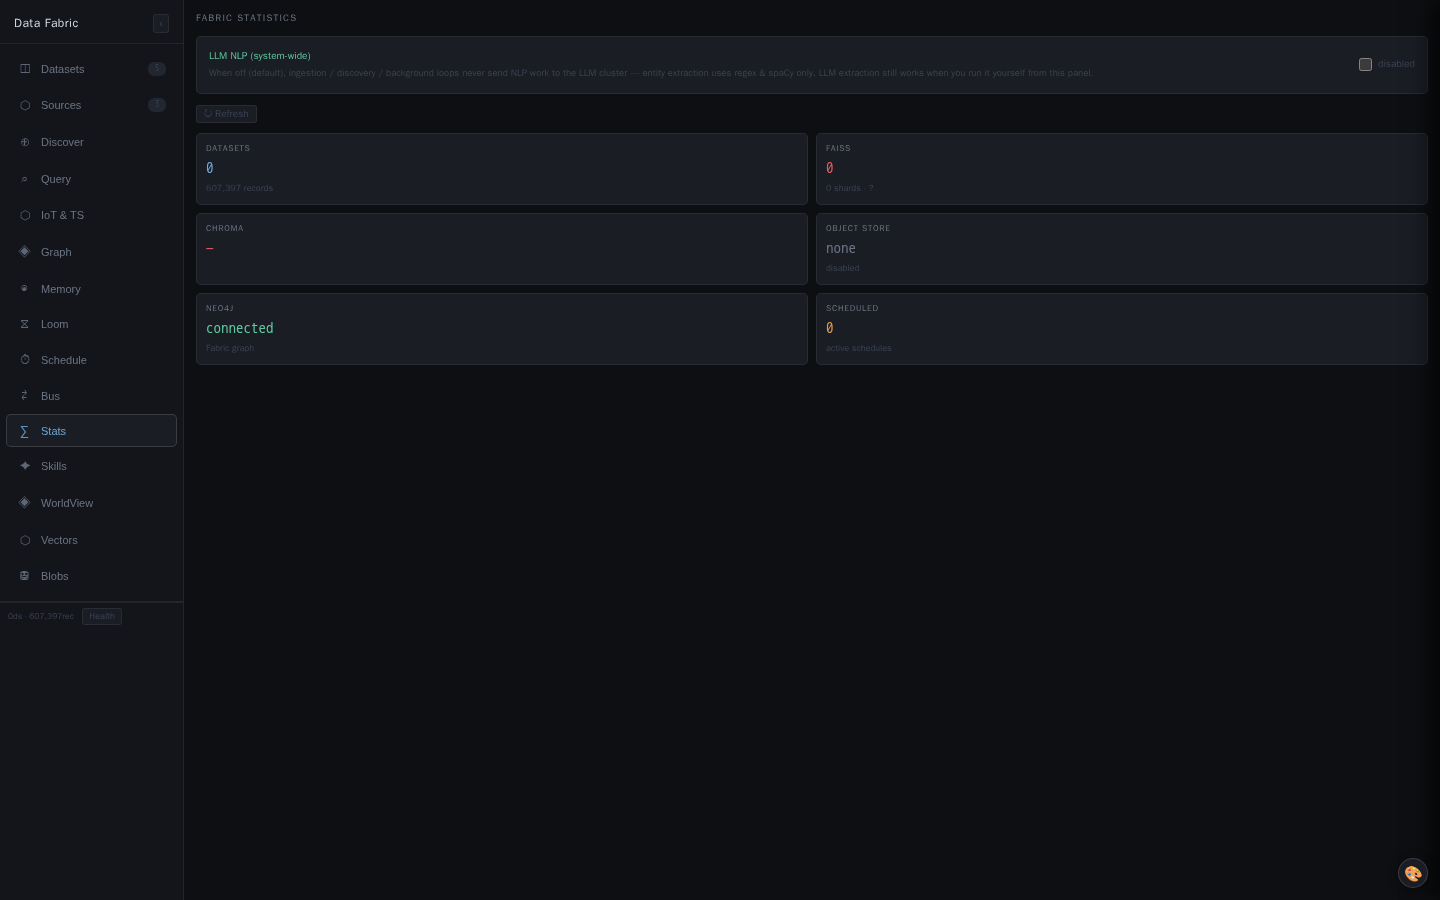
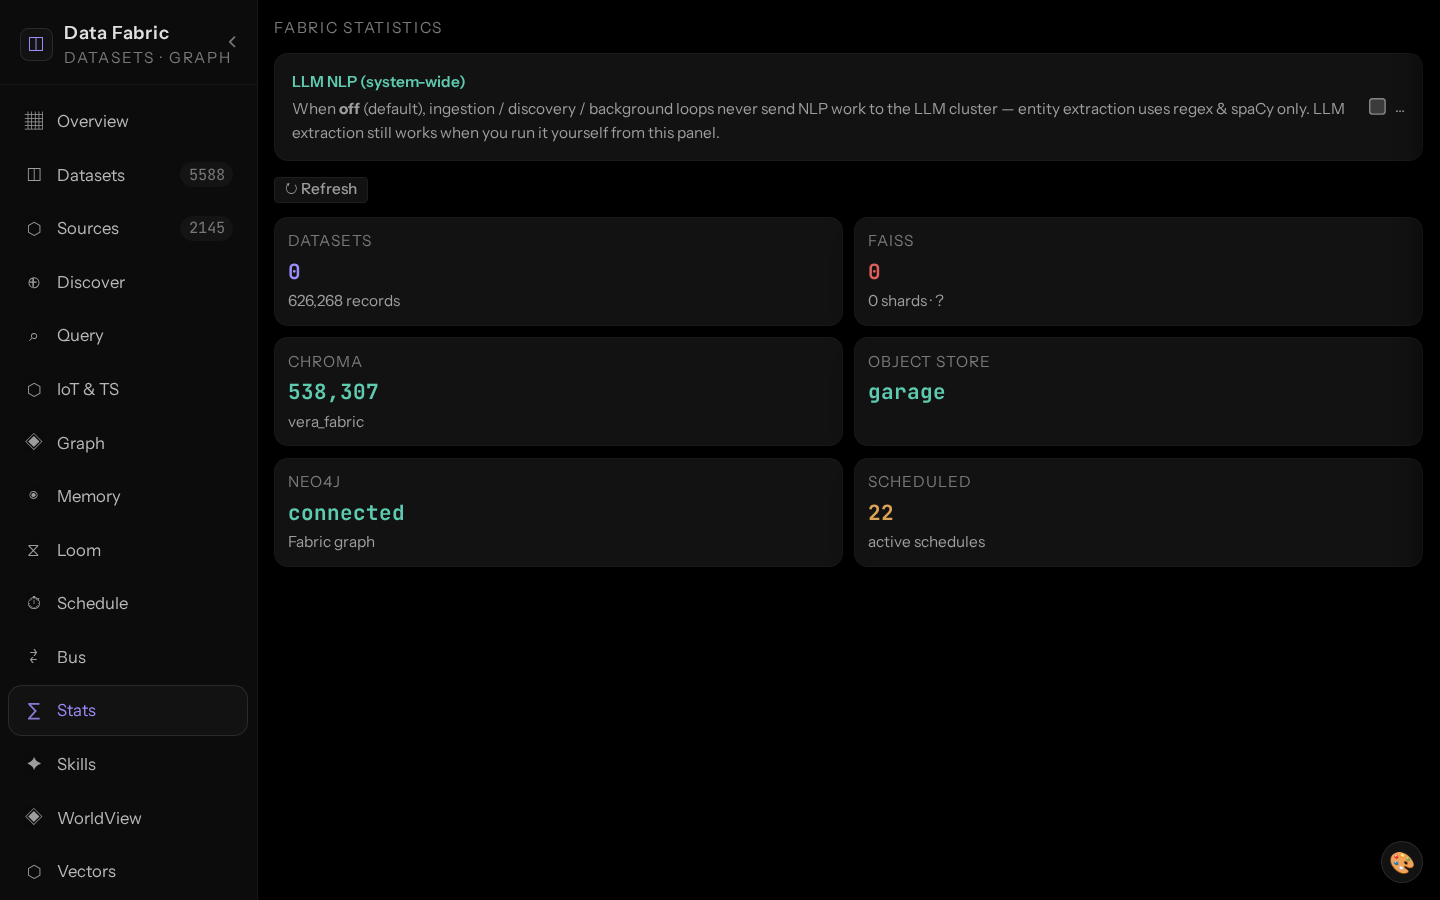
docs capture: readiness that sees widgets, waits out placeholders, rejects blank canvases
The default "meaningful content" check read only document.body.innerText.
Registry widgets render into open shadow roots and the panel window wraps
route panels in a same-origin iframe, so 15 populated panels read as empty.
It now walks shadow roots and same-origin frames, counting only rendered
text, and a visible placeholder line (loading / reading / checking /
waiting for) means not yet. The fallback waits 30s, not 10s.

Explicit conditions were too easy to satisfy:
- text/count rejected "loading" only at the start; "1 nodes · 0 edges
  loading" passed. Now rejected anywhere.
- count took the first digit, so "2D VIEW -- 0 nodes" counted 2. It now
  takes the first quantity.
- new ready_painted: a canvas holding only its background has drawn nothing.
- new ready_timeout_ms per state, and click_after_count so a view built at
  click time is not opened before its data arrives.

States: memory graph (75s, painted), fabric graph (count), fabric stats
(waits for its grid), galaxy 2D view (click after nodes, count), worldview
(press Render, 90s). Fabric statistics re-shot from prod.

diff --git a/vera/operator/missions/documentation.py b/vera/operator/missions/documentation.py
@@ -394,6 +394,78 @@ def panel_capture_url(base_url: str, panel: Dict[str, Any],
     return {"url": f"{base}/ui/panel/window?id={panel.get('id')}", "via": "window"}
 
 
+# Default readiness: the panel shows real content. Registry widgets render into
+# open shadow roots and the panel window wraps route panels in a same-origin
+# iframe; body.innerText sees neither, so 15 populated panels read as empty (a
+# palette button's emoji was the whole "page"). Walk shadow roots and same-origin
+# frames, counting only rendered text: <style>/<script> bodies and hidden tabs
+# would otherwise make any styled widget look populated.
+# A visible placeholder line ("Loading…", "reading sysmon.status…", "Checking
+# the estate…", "Waiting for an agentic run…") means not yet, however much
+# toolbar text surrounds it: with only a length bar, eight panels were shot
+# mid-load.
+_MEANINGFUL_CONTENT_JS = """() => {
+  const b = document.body; if (!b || b.scrollHeight <= 120) return false;
+  const SKIP = /^(STYLE|SCRIPT|NOSCRIPT|TEMPLATE)$/;
+  const PENDING = /^\\s*(loading|reading|checking|waiting for)\\b/i;
+  let text = '', media = false, pending = false;
+  const walk = (root, depth) => {
+    if (!root || depth > 4 || text.length > 4000) return;
+    if (root.querySelector && root.querySelector('canvas,svg,img[src],table tbody tr')) media = true;
+    const w = document.createTreeWalker(root, NodeFilter.SHOW_ELEMENT | NodeFilter.SHOW_TEXT);
+    for (let n = w.nextNode(); n && text.length <= 4000; n = w.nextNode()) {
+      if (n.nodeType === 3) {
+        const p = n.parentElement;
+        if (p && !SKIP.test(p.tagName) && (!p.checkVisibility || p.checkVisibility())) {
+          text += n.nodeValue + ' ';
+          if (PENDING.test(n.nodeValue)) pending = true;
+        }
+      } else {
+        if (n.shadowRoot) walk(n.shadowRoot, depth + 1);
+        if (n.tagName === 'IFRAME') {
+          let d = null; try { d = n.contentDocument; } catch (e) {}
+          if (d && d.body) walk(d.body, depth + 1);
+        }
+      }
+    }
+  };
+  walk(b, 0);
+  if (pending) return false;
+  text = text.replace(/\\s+/g, ' ').trim();
+  return text.length > 40 || media;
+}"""
+
+# "Loading" anywhere means not yet: a status line reads "1 nodes · 0 edges
+# loading" while the graph is still arriving, and passed a start-only check.
+_READY_TEXT_JS = """sel => { const e = document.querySelector(sel);
+  if (!e) return false; const t = (e.innerText || e.textContent || '').trim();
+  return t.length > 2 && !/^(starting|\\u2014|[.]{3})/i.test(t) && !/\\bloading\\b/i.test(t); }"""
+
+# Count the first QUANTITY ("400 nodes"), not the first digit: "2D VIEW -- 0
+# nodes" is an empty view whose first digit belongs to its title.
+_READY_COUNT_JS = """sel => { const e = document.querySelector(sel);
+  if (!e) return false; const t = e.innerText || e.textContent || '';
+  if (/\\bloading\\b/i.test(t)) return false;
+  const m = t.match(/(\\d[\\d,]*)\\s+[A-Za-z]/) || t.match(/\\d[\\d,]*/);
+  return !!m && Number((m[1] || m[0]).replace(/,/g, '')) > 0; }"""
+
+
+# A canvas that holds only its background colour has drawn nothing: the memory
+# graph's status line read "906 nodes" over a blank canvas, and every
+# text/count condition passed. Sampled, so a large canvas stays cheap. A canvas
+# without a readable 2D context (WebGL, tainted) cannot be judged and passes.
+_READY_PAINTED_JS = """sel => { const c = document.querySelector(sel);
+  if (!c || !c.width || !c.height) return false;
+  let g = null; try { g = c.getContext('2d'); } catch (e) { return true; }
+  if (!g) return true;
+  let d; try { d = g.getImageData(0, 0, c.width, c.height).data; } catch (e) { return true; }
+  const first = d[0] + ',' + d[1] + ',' + d[2]; let other = 0;
+  for (let i = 0; i < d.length; i += 4 * 61) {
+    if (d[i] + ',' + d[i + 1] + ',' + d[i + 2] !== first && ++other > 20) return true;
+  }
+  return false; }"""
+
+
 async def _wait_ready(page, settle_ms: int,
                       state: Optional[Dict[str, Any]] = None) -> List[Dict[str, Any]]:
     """Wait for declarative panel readiness and return bounded evidence.
@@ -420,33 +492,33 @@ async def _wait_ready(page, settle_ms: int,
     ready_selector = str(state.get("ready_selector") or "")
     ready_text = str(state.get("ready_text") or "")
     ready_count = str(state.get("ready_count") or "")
+    # A slow backend (prod's full fabric graph, a worldview projection) needs
+    # longer than the defaults; a state may raise its own explicit waits.
+    explicit_ms = int(state.get("ready_timeout_ms") or 0)
+    # Only the fallback blocks on this, so a longer wait costs time only on a
+    # panel with no explicit state - and a loaded prod needed more than 10s.
+    content_required = not (ready_selector or ready_text or ready_count)
+    content_ms = (explicit_ms or 30000) if content_required else 10000
     await _observe(
-        "meaningful_content", not (ready_selector or ready_text or ready_count), 10000,
-        page.wait_for_function(
-            "() => { const b=document.body; if(!b) return false; "
-            "const text=(b.innerText||'').replace(/loading[….]*/ig,'').trim(); "
-            "return b.scrollHeight > 120 && (text.length > 40 "
-            "|| b.querySelector('canvas,svg,img[src],table tbody tr')); }",
-            timeout=10000))
+        "meaningful_content", content_required, content_ms,
+        page.wait_for_function(_MEANINGFUL_CONTENT_JS, timeout=content_ms))
     if ready_selector:
-        await _observe(f"selector:{ready_selector}", True, 15000,
-                       page.wait_for_selector(ready_selector, state="visible", timeout=15000))
+        ms = explicit_ms or 15000
+        await _observe(f"selector:{ready_selector}", True, ms,
+                       page.wait_for_selector(ready_selector, state="visible", timeout=ms))
     if ready_text:
-        await _observe(
-            f"text:{ready_text}", True, 20000,
-            page.wait_for_function(
-                """sel => { const e=document.querySelector(sel);
-                if(!e) return false; const t=(e.innerText||e.textContent||'').trim();
-                return t.length > 2 && !/^(loading|starting|—|[.]{3})/i.test(t); }""",
-                arg=ready_text, timeout=20000))
+        ms = explicit_ms or 20000
+        await _observe(f"text:{ready_text}", True, ms,
+                       page.wait_for_function(_READY_TEXT_JS, arg=ready_text, timeout=ms))
     if ready_count:
-        await _observe(
-            f"count:{ready_count}", True, 20000,
-            page.wait_for_function(
-                """sel => { const e=document.querySelector(sel);
-                if(!e) return false; const m=(e.innerText||e.textContent||'').match(/\\d[\\d,]*/);
-                return !!m && Number(m[0].replace(/,/g,'')) > 0; }""",
-                arg=ready_count, timeout=20000))
+        ms = explicit_ms or 20000
+        await _observe(f"count:{ready_count}", True, ms,
+                       page.wait_for_function(_READY_COUNT_JS, arg=ready_count, timeout=ms))
+    ready_painted = str(state.get("ready_painted") or "")
+    if ready_painted:
+        ms = explicit_ms or 20000
+        await _observe(f"painted:{ready_painted}", True, ms,
+                       page.wait_for_function(_READY_PAINTED_JS, arg=ready_painted, timeout=ms))
     try:
         await page.evaluate("""async () => {
           if (document.fonts && document.fonts.ready) await document.fonts.ready;
@@ -479,6 +551,17 @@ async def _shoot_panel(session, url: str, abspath: str, *, settle_ms: int = 1400
                                       type(exc).__name__) from exc
         state = state or {}
         click = str(state.get("click") or "")
+        # A view built at click time from data that is still arriving stays
+        # empty: the galaxy's 2D view snapshots its nodes when opened, and was
+        # opened at 1.2s with 0 nodes while the data landed at ~10s.
+        click_after = str(state.get("click_after_count") or "")
+        if click and click_after:
+            ms = int(state.get("ready_timeout_ms") or 0) or 30000
+            try:
+                await page.wait_for_function(_READY_COUNT_JS, arg=click_after, timeout=ms)
+            except Exception as exc:
+                raise PanelReadinessError(f"click_after:{click_after}", ms,
+                                          type(exc).__name__) from exc
         if click:
             try:
                 await page.locator(click).first.click(timeout=10000)

diff --git a/tests/test_operator_documentation_ready_js.py b/tests/test_operator_documentation_ready_js.py
@@ -1,0 +1,131 @@
+"""The documentation capture's readiness predicates, run in a real Chromium.
+
+These are JavaScript, so a fake page cannot exercise them; each case below is a
+page shape a real panel had when it was misjudged.
+"""
+import asyncio
+
+import pytest
+
+from vera.operator.missions.documentation import (
+    _MEANINGFUL_CONTENT_JS, _READY_COUNT_JS, _READY_PAINTED_JS, _READY_TEXT_JS)
+
+playwright = pytest.importorskip("playwright.async_api")
+
+FILLER = "<div style='height:400px'></div>"
+WORDS = "Agent loop configuration with planner, controllers and tool budgets"
+
+
+async def _eval(html, expression, arg=None):
+    async with playwright.async_playwright() as p:
+        try:
+            browser = await p.chromium.launch()
+        except Exception as exc:  # browser binary not installed here
+            pytest.skip(f"chromium unavailable: {exc}")
+        try:
+            page = await browser.new_page()
+            await page.set_content(html)
+            await page.wait_for_timeout(50)
+            return await page.evaluate(f"({expression})", arg) if arg is not None \
+                else await page.evaluate(f"({expression})()")
+        finally:
+            await browser.close()
+
+
+def _run(html, expression, arg=None):
+    return asyncio.run(_eval(html, expression, arg))
+
+
+def test_content_inside_an_open_shadow_root_counts():
+    html = (FILLER + "<div id='host'></div><script>"
+            "document.getElementById('host').attachShadow({mode:'open'})"
+            f".innerHTML = '<p>{WORDS}</p>';</script>")
+    assert _run(html, _MEANINGFUL_CONTENT_JS) is True
+
+
+def test_content_inside_a_same_origin_iframe_counts():
+    html = FILLER + f"<iframe srcdoc='<p>{WORDS}</p>'></iframe>"
+    async def _with_frame():
+        async with playwright.async_playwright() as p:
+            try:
+                browser = await p.chromium.launch()
+            except Exception as exc:
+                pytest.skip(f"chromium unavailable: {exc}")
+            try:
+                page = await browser.new_page()
+                await page.set_content(html)
+                await page.wait_for_function("() => { const f=document.querySelector('iframe');"
+                                             " return f.contentDocument && f.contentDocument.body"
+                                             " && f.contentDocument.body.innerText.length > 0; }")
+                return await page.evaluate(f"({_MEANINGFUL_CONTENT_JS})()")
+            finally:
+                await browser.close()
+    assert asyncio.run(_with_frame()) is True
+
+
+def test_a_shadow_stylesheet_and_a_palette_button_are_not_content():
+    css = "x{color:red} " * 40
+    html = (FILLER + "<button>&#127912;</button><div id='host'></div><script>"
+            "document.getElementById('host').attachShadow({mode:'open'})"
+            f".innerHTML = '<style>{css}</style><div></div>';</script>")
+    assert _run(html, _MEANINGFUL_CONTENT_JS) is False
+
+
+@pytest.mark.parametrize("placeholder", [
+    "Loading…", "Checking the estate…", "Waiting for an agentic run…",
+    "Loading palette…", "reading sysmon.status…"])
+def test_a_visible_placeholder_line_means_not_ready_whatever_surrounds_it(placeholder):
+    html = (FILLER + f"<nav>{WORDS} {WORDS}</nav><div id='host'></div><script>"
+            "document.getElementById('host').attachShadow({mode:'open'})"
+            f".innerHTML = '<p>{placeholder}</p>';</script>")
+    assert _run(html, _MEANINGFUL_CONTENT_JS) is False
+
+
+def test_words_that_merely_mention_loading_are_not_placeholders():
+    html = FILLER + f"<p>{WORDS}</p><p>Demo data loaded from the fabric</p>"
+    assert _run(html, _MEANINGFUL_CONTENT_JS) is True
+
+
+def test_hidden_text_is_not_content():
+    html = FILLER + f"<div style='display:none'>{WORDS}</div>"
+    assert _run(html, _MEANINGFUL_CONTENT_JS) is False
+
+
+def _canvas(draw):
+    return ("<canvas id='cv' width='600' height='400'></canvas><script>"
+            "const g = document.getElementById('cv').getContext('2d');"
+            "g.fillStyle = '#050505'; g.fillRect(0, 0, 600, 400);" + draw + "</script>")
+
+
+def test_a_canvas_filled_only_with_its_background_is_not_painted():
+    assert _run(_canvas(""), _READY_PAINTED_JS, "#cv") is False
+
+
+def test_a_canvas_with_a_drawn_graph_is_painted():
+    draw = ("g.fillStyle = '#4fa3ff';"
+            "for (let i = 0; i < 300; i++) { g.beginPath();"
+            " g.arc(50 + (i * 37) % 500, 40 + (i * 53) % 320, 6, 0, 7); g.fill(); }")
+    assert _run(_canvas(draw), _READY_PAINTED_JS, "#cv") is True
+
+
+@pytest.mark.parametrize("text,ready", [
+    ("938 nodes · 1587 edges", True),
+    ("1 nodes · 0 edges loading", False),
+    ("2D VIEW -- 0 nodes / 0 edges", False),
+    ("2D VIEW -- 412 nodes / 700 edges", True),
+    ("fabric graph — 0 nodes, 0 edges", False),
+    ("400", True),
+    ("0", False),
+])
+def test_count_reads_the_first_quantity_and_rejects_loading(text, ready):
+    assert _run(f"<span id='s'>{text}</span>", _READY_COUNT_JS, "#s") is ready
+
+
+@pytest.mark.parametrize("text,ready", [
+    ("Loading…", False),
+    ("1 nodes · 0 edges loading", False),
+    ("DATASETS 0 626,262 records", True),
+    ("Demo data loaded", True),
+])
+def test_text_rejects_loading_anywhere(text, ready):
+    assert _run(f"<span id='s'>{text}</span>", _READY_TEXT_JS, "#s") is ready

diff --git a/vera/operator/docs/domain_map.py b/vera/operator/docs/domain_map.py
@@ -38,7 +38,10 @@ DOMAINS: List[Dict[str, Any]] = [
          {"name": "recent", "label": "Recent memory activity",
           "caption": "A populated recent-activity graph with memory records, sessions, and their relationships.",
           "click": "#btn-recent", "ready_selector": "#cv",
-          "ready_text": "#stat-bar", "ready_count": "#stat-bar", "settle_ms": 3200},
+          "ready_text": "#stat-bar", "ready_count": "#stat-bar", "ready_painted": "#cv",
+          "settle_ms": 3200,
+          # prod's recent graph (~900 nodes) took 49s to arrive
+          "ready_timeout_ms": 75000},
      ]}},
     {"slug": "data-fabric", "doc": "06-data-fabric.md", "title": "Data Fabric",
      "cap_prefixes": ["fabric"], "panel_ids": ["fabric-panel"],
@@ -47,14 +50,16 @@ DOMAINS: List[Dict[str, Any]] = [
          {"name": "graph", "label": "Data Fabric graph",
           "caption": "The populated structural graph connects datasets, sources, agents, skills, and ontologies.",
           "click": "#fnav-graph", "ready_selector": "#fgGraphHost canvas",
-          "ready_text": "#fgGraphMeta", "settle_ms": 3200},
+          "ready_text": "#fgGraphMeta", "ready_count": "#fgGraphMeta",
+          "settle_ms": 3200, "ready_timeout_ms": 60000},
          {"name": "sources", "label": "Data Fabric sources",
           "caption": "Source management, acquisition status, and dataset routing.",
           "click": "#fnav-sources", "ready_selector": "#fsec-sources",
           "ready_text": "#fabSrcFilterMeta", "settle_ms": 2200},
          {"name": "stats", "label": "Data Fabric statistics",
           "caption": "Backend health and storage statistics across the polyglot fabric.",
-          "click": "#fnav-stats", "ready_selector": "#fsec-stats", "settle_ms": 2400},
+          "click": "#fnav-stats", "ready_selector": "#fsec-stats",
+          "ready_text": "#fabStatsGrid", "settle_ms": 2400},
      ]}},
     {"slug": "research", "doc": "07-research.md", "title": "Research",
      "cap_prefixes": ["research"], "panel_ids": ["research-panel", "notebook-panel", "nlp-panel"],
@@ -72,8 +77,10 @@ DOMAINS: List[Dict[str, Any]] = [
           "settle_ms": 4200},
          {"name": "physics", "label": "Memory galaxy 2D physics view",
           "caption": "The alternate physics view makes clusters and relationship structure directly inspectable.",
+          "click_after_count": "#s-nodes",
           "click": "#view2d-btn", "ready_selector": "#view2d-canvas",
-          "ready_text": "#view2d-label", "settle_ms": 2600},
+          "ready_text": "#view2d-label", "ready_count": "#view2d-label",
+          "settle_ms": 2600},
      ]}},
     {"slug": "configuration", "doc": "10-configuration.md", "title": "Configuration",
      "cap_prefixes": ["config"], "panel_ids": [], "match": ["config"], "seed": None},
@@ -84,9 +91,11 @@ DOMAINS: List[Dict[str, Any]] = [
          {"name": "latent-map", "label": "WorldView latent map",
           "caption": "The latent map exposes WorldView concepts, projection controls, and model state.",
           "capture_path": "/ui/panels/worldview-panel",
+          # the latent map only loads when Render is pressed
+          "click": "button[onclick='wvLoadScatter()']",
           "ready_selector": "#wvScatter", "ready_text": "#wvTabDescText",
           "ready_count": "#wvScatterInfo",
-          "settle_ms": 2800},
+          "settle_ms": 2800, "ready_timeout_ms": 90000},
      ]}},
     {"slug": "execution", "doc": "12-execution.md", "title": "Execution",
      "cap_prefixes": ["exec"], "panel_ids": [], "match": ["exec", "execution"], "seed": None},

diff --git a/tests/test_operator_documentation_readiness.py b/tests/test_operator_documentation_readiness.py
@@ -114,6 +114,18 @@ def test_click_failure_names_action_and_never_takes_screenshot(tmp_path: Path):
     assert page.screenshots == []
 
 
+def test_click_waits_for_its_data_and_never_clicks_an_empty_view(tmp_path: Path):
+    page = _Page({"count", "click"})
+    result = asyncio.run(_shoot_panel(
+        SimpleNamespace(page=page), "https://vera.test/panel",
+        str(tmp_path / "panel.png"),
+        state={"click_after_count": "#s-nodes", "click": "#view2d-btn"}))
+
+    assert result["ok"] is False
+    assert result["failed_condition"] == "click_after:#s-nodes"
+    assert page.screenshots == []
+
+
 def test_navigation_failure_names_load_condition(tmp_path: Path):
     page = _Page({"navigation"})
     result = asyncio.run(_shoot_panel(
